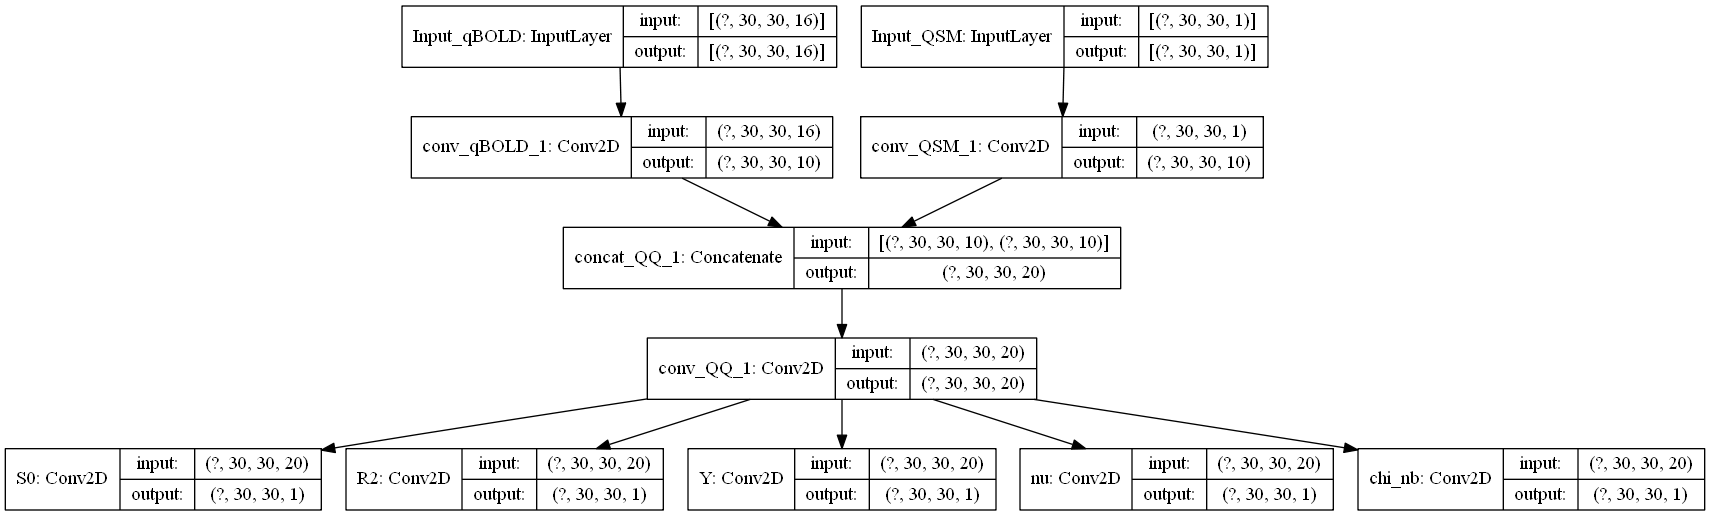
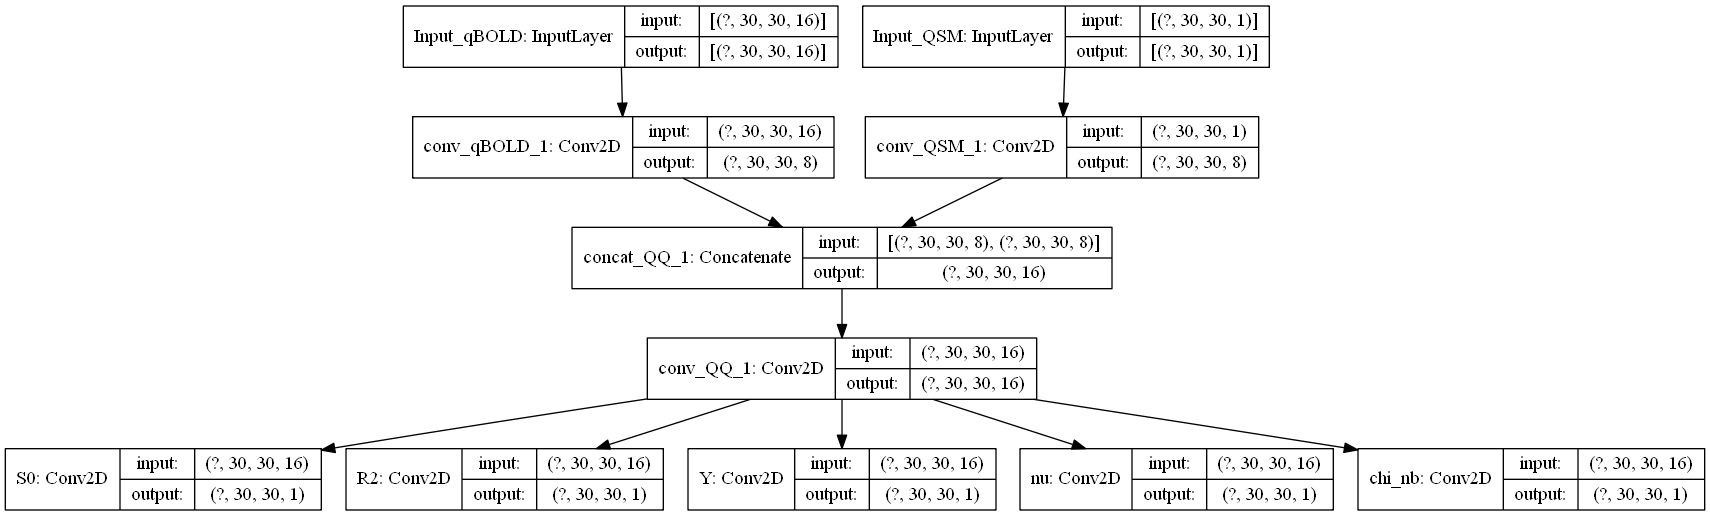
Got DataLoader to run

diff --git a/QSM_qBOLD_2D_network_with_dataset.py b/QSM_qBOLD_2D_network_with_dataset.py
@@ -10,7 +10,8 @@ import matplotlib.pyplot as plt
 from tqdm import tqdm  #for progress bar
 
 import h5py
-#from QSM_qBOLD_2D_load_and_prepare_data import load_and_prepare_data
+
+from qqboldparamsloader import QQBoldParamsLoader
 
 #tf.keras.mixed_precision.set_global_policy("mixed_float16") #accelerates training, expecially with tensor cores on RTX cards
 #from My_Custom_Generator import My_Params_Generator,My_Signal_Generator
@@ -34,7 +35,7 @@ QSM_test=Dataset['QSM_test']
 version = "no_air_0noise_big/"
 
 filenames=[]
-filenumber=int(848820/20)
+filenumber=int(848820)
 for count in range(filenumber):
     filenames.append("{0}.TIF".format(count).zfill(6+4))
 filenames_shuffled=shuffle(filenames)
@@ -42,7 +43,7 @@ filenames_shuffled=shuffle(filenames)
 threshold = int(filenumber*0.8)
 filenames_train_shuffled=filenames[:threshold]
 filenames_val_shuffled=filenames[threshold:]
-#len(filenames_train_shuffled)
+len(filenames_train_shuffled)
 #filenames_val_shuffled
 # %% Network
 
@@ -61,6 +62,7 @@ conv_qBOLD_1 = keras.layers.Conv2D(n,
                   activation='sigmoid',
                   name='conv_qBOLD_1')(input_qBOLD)
 
+"""
 conv_qBOLD_2 = keras.layers.Conv2D(2*n,
                   kernel_size = 3,
                   strides=1,
@@ -81,8 +83,8 @@ conv_qBOLD_3 =keras.layers.Conv2D(3*n,
                   name='conv_qBOLD_3')(concatenate_qBOLD)
 
 
-
-model_qBOLD = keras.Model(inputs=input_qBOLD, outputs = conv_qBOLD_3, name="qBOLD model")
+"""
+model_qBOLD = keras.Model(inputs=input_qBOLD, outputs = conv_qBOLD_1, name="qBOLD model")
 model_qBOLD.summary()
 keras.utils.plot_model(model_qBOLD, show_shapes=True)
 # %%
@@ -95,7 +97,7 @@ conv_QSM_1 = keras.layers.Conv2D(n,
                   dilation_rate=1,
                   activation='sigmoid',
                   name='conv_QSM_1')(input_QSM)
-
+"""
 conv_QSM_2 = keras.layers.Conv2D(2*n,
                   kernel_size=3,
                   strides=(1),
@@ -107,24 +109,25 @@ conv_QSM_2 = keras.layers.Conv2D(2*n,
 
 concatenate_QSM = layers.Concatenate(name = 'Concat_QSM')([input_QSM,conv_QSM_2])
 conv_QSM_3 = layers.Conv2D(3*n,3,padding='same',name = 'conv_QSM_3')(concatenate_QSM)
-model_QSM = keras.Model(inputs=input_QSM, outputs = conv_QSM_3, name="QSM model")
+"""
+model_QSM = keras.Model(inputs=input_QSM, outputs = conv_QSM_1, name="QSM model")
 model_QSM.summary()
 keras.utils.plot_model(model_QSM, show_shapes=True)
 # %%
 concat_QQ_1 = layers.Concatenate(name = 'concat_QQ_1')([model_qBOLD.output,model_QSM.output])
 
-conv_QQ_1 = layers.Conv2D(48,3,padding='same',name = 'conv_QQ_1')(concat_QQ_1)
-conv_QQ_2 = layers.Conv2D(2*48,3,padding='same',name = 'conv_QQ_2')(conv_QQ_1)
+conv_QQ_1 = layers.Conv2D(2*n,3,padding='same',name = 'conv_QQ_1')(concat_QQ_1)
+#conv_QQ_2 = layers.Conv2D(2*48,3,padding='same',name = 'conv_QQ_2')(conv_QQ_1)
 
 #concat_QQ_2 = layers.Concatenate(name = 'concat_QQ_2')([concat_QQ_1,conv_QQ_2])
 
 
 
-conv_S0 = layers.Conv2D(1,3,padding='same',activation="sigmoid", name = 'S0')(    conv_QQ_2)
-conv_R2 = layers.Conv2D(1,3,padding='same',activation="sigmoid", name = 'R2')(    conv_QQ_2)
-conv_Y = layers.Conv2D(1,3,padding='same',activation="sigmoid", name = 'Y')(     conv_QQ_2)
-conv_nu = layers.Conv2D(1,3,padding='same',activation="sigmoid", name = 'nu')(    conv_QQ_2)
-conv_chinb = layers.Conv2D(1,3,padding='same',activation="sigmoid", name = 'chi_nb')(conv_QQ_2)
+conv_S0 = layers.Conv2D(1,3,padding='same',activation="sigmoid", name = 'S0')(    conv_QQ_1)
+conv_R2 = layers.Conv2D(1,3,padding='same',activation="sigmoid", name = 'R2')(    conv_QQ_1)
+conv_Y = layers.Conv2D(1,3,padding='same',activation="sigmoid", name = 'Y')(     conv_QQ_1)
+conv_nu = layers.Conv2D(1,3,padding='same',activation="sigmoid", name = 'nu')(    conv_QQ_1)
+conv_chinb = layers.Conv2D(1,3,padding='same',activation="sigmoid", name = 'chi_nb')(conv_QQ_1)
 
 
 model_params = keras.Model(inputs=[input_qBOLD,input_QSM],outputs=[conv_S0,conv_R2,conv_Y,conv_nu,conv_chinb],name="Params_model")
@@ -162,55 +165,41 @@ model_params.compile(
     #metrics=["accuracy"],
 )
 
-#%%
 my_callbacks = [
     tf.keras.callbacks.EarlyStopping(patience=3),
     #tf.keras.callbacks.ModelCheckpoint(filepath='model.{epoch:02d}-{val_loss:.2f}.h5'),
     #tf.keras.callbacks.TensorBoard(log_dir='./logs/2021_07_15-1330')
 ]
 
+#%%
 
-S0_training = Params_training[:,:,:,0]
-R2_training = Params_training[:,:,:,1]
-Y_training = Params_training[:,:,:,2]
-nu_training = Params_training[:,:,:,3]
-chi_nb_training = Params_training[:,:,:,4]
-training_list = [S0_training,R2_training,Y_training,nu_training,chi_nb_training]
+batch_size=100
+train_params_loader = QQBoldParamsLoader(name="training_loader",shuffle=False,n_inputs=2,n_labels=5)
+training_Params_data =train_params_loader(filenames_train_shuffled,batch_size=batch_size,n_epochs=100,read_threads=1)
+val_params_loader = QQBoldParamsLoader(name="val_loader",shuffle=False,n_inputs=2,n_labels=5)
+val_Params_data =train_params_loader(filenames_val_shuffled,batch_size=batch_size,n_epochs=100,read_threads=1)
 
-#batch_size=100
+#data_read = train_params_loader._read_file_and_return_numpy_samples(bytes(filenames_train_shuffled[0],'utf-8'))
+#for i in data_read:
+#    print(i.shape)
 
-#my_training_Params_generator = My_Params_Generator(filenames_train_shuffled,batch_size)
-#my_val_Params_generator = My_Params_Generator(filenames_val_shuffled,batch_size)
-#training_Params_data = tf.data.Dataset.from_generator(
-#                                        my_training_Params_generator,
-#                                        output_types=( (tf.float32,tf.float32),   (tf.float32,tf.float32,tf.float32,tf.float32,tf.float32)    )
-#                                                          )
+#id_tensor0 = tf.squeeze(tf.convert_to_tensor(filenames_train_shuffled[0], dtype=tf.string))
+#id_tensor0
+#id_tensor1 = tf.squeeze(tf.convert_to_tensor(filenames_train_shuffled[1], dtype=tf.string))
+#id_tensor1
+#id_tensor=[id_tensor0,id_tensor1]
+#id_tensor
+#file_list_ds = tf.data.Dataset.from_tensor_slices(id_tensor)
+#test_read_wrapper = train_params_loader._read_wrapper(id_tensor0)
+#test_read_wrapper
+#test=training_Params_data.take(1)
+#for element in test:
+#    print(element)
 
-"""
-output_signature=( (tf.TensorSpec(shape=(30,30,16),dtype=tf.float32) ,
-tf.TensorSpec(shape=(30,30,1),dtype=tf.float32) ),
-(tf.TensorSpec(shape=(30,30,1),dtype=tf.float32),
-tf.TensorSpec(shape=(30,30,1),dtype=tf.float32),
-tf.TensorSpec(shape=(30,30,1),dtype=tf.float32),
-tf.TensorSpec(shape=(30,30,1),dtype=tf.float32),
-tf.TensorSpec(shape=(30,30,1),dtype=tf.float32))
-
-
-
-val_Params_data = tf.data.Dataset.from_generator(
-                                        my_val_Params_generator,
-                                        output_signature=( (tf.TensorSpec(shape(30,30,16),dtype=tf.float32) ,
-                                                            tf.TensorSpec(shape(30,30,1),dtype=tf.float32) ),
-                                                            (tf.TensorSpec(shape(30,30,1),dtype=tf.float32),
-                                                            tf.TensorSpec(shape(30,30,1),dtype=tf.float32),
-                                                            tf.TensorSpec(shape(30,30,1),dtype=tf.float32),
-                                                            tf.TensorSpec(shape(30,30,1),dtype=tf.float32),
-                                                            tf.TensorSpec(shape(30,30,1),dtype=tf.float32))                                                   )
-                                                          )
-                                        )
-"""
-history_params = model_params.fit([qBOLD_training,QSM_training], training_list , batch_size=100, epochs=1000, validation_split=0.2, callbacks=my_callbacks)
-#history_params = model_params.fit(training_Params_data, epochs=100,validation_data=val_Params_data, callbacks=my_callbacks)
+#history_params = model_params.fit([qBOLD_training,QSM_training], training_list , batch_size=100, epochs=1000, validation_split=0.2, callbacks=my_callbacks)
+#steps_per_epoch = len(filenames_train_shuffled)//batch_size,
+#validation_steps = len(filenames_val_shuffled)//batch_size,
+history_params = model_params.fit(training_Params_data, validation_data=val_Params_data, epochs = 100, callbacks=my_callbacks)
 
 #%%
 """
@@ -333,7 +322,9 @@ plt.figure()
 plt.imshow(QSM_test[Number,:,:,0], cmap='gray')
 
 # %%
-""" Second training step """
+"""
+# Second training step
+"""
 
 def f_hyper_tensor(x):
     '''
@@ -391,22 +382,7 @@ def f_qBOLD_tensor(tensor):
     t_Echo_fall=tf.constant([42,45,48], dtype=tf.float32)/1000
     output_Echo_fall = S0 * tf.math.exp(-R2*t_Echo_fall - nu*f_hyper_tensor(dw*(t_Echo_fall-TE)))
     return tf.concat([output_FID,output_Echo_rise,output_Echo_fall],axis=-1)
-"""
-This kind of test does not work because of Dimensions, but it works somehow in the network
-Incompatible shapes: [30,30] vs. [6] [Op:Mul]
 
-
-Params_test.shape
-p.shape
-test_a = tf.convert_to_tensor(Params_test[2,:,:,0])
-test_a.shape
-test_b = tf.convert_to_tensor(Params_test[2,:,:,1])
-test_c = tf.convert_to_tensor(Params_test[2,:,:,2])
-test_d = tf.convert_to_tensor(Params_test[2,:,:,3])
-test_e = tf.convert_to_tensor(Params_test[2,:,:,4])
-
-out = simulateSignal_for_FID([test_a,test_b,test_c,test_d,test_e])
-"""
 
 def f_QSM_tensor(tensor):
     c = tensor[0]

diff --git a/qqboldparamsloader.py b/qqboldparamsloader.py
@@ -10,8 +10,8 @@ import tensorflow as tf
 from skimage import io
 
 
-from .dataloader import Dataloader
-from . import config as cfg
+from dataloader import DataLoader
+import config as cfg
 
 # configure logger
 logger = logging.getLogger(__name__)
@@ -27,7 +27,6 @@ class QQBoldParamsLoader(DataLoader):
 
     def __init__(
         self,
-        file_dict: Dict[str, Dict[str, str]],
         mode=None,
         seed=42,
         name="reader",
@@ -81,50 +80,55 @@ class QQBoldParamsLoader(DataLoader):
             file_list, batch_size, n_epochs=n_epochs, read_threads=read_threads
         )
 
-def _set_up_shapes_and_types(self):
-    """
-    sets:
-    - dtypes
-    - dshapes
+    def _set_up_shapes_and_types(self):
+        """
+        sets:
+        - dtypes
+        - dshapes
 
-    """
-    # dtypes and dshapes are defined in the base class
-    # pylint: disable=attribute-defined-outside-init
+        """
+        # dtypes and dshapes are defined in the base class
+        # pylint: disable=attribute-defined-outside-init
 
-    if self.mode is self.MODES.TRAIN or self.mode is self.MODES.VALIDATE:
-        self.dtypes = [tf.float32,tf.float32, tf.float32,tf.float32,tf.float32,tf.float32,tf.float32]
-        self.dshapes = [
-            np.array([30,30,16]),np.array([30,30,1]),
-            np.array([30,30,1]),np.array([30,30,1]),np.array([30,30,1]),np.array([30,30,1]),np.array([30,30,1]),
-        ]
-    else:
-        raise ValueError(f"Not allowed mode {self.mode}")
+        if self.mode is self.MODES.TRAIN or self.mode is self.MODES.VALIDATE:
+            self.dtypes = [tf.float32,tf.float32, tf.float32,tf.float32,tf.float32,tf.float32,tf.float32]
+            self.dshapes = [
+                np.array([30,30,16]),np.array([30,30,1]),
+                np.array([30,30,1]),np.array([30,30,1]),np.array([30,30,1]),np.array([30,30,1]),np.array([30,30,1]),
+            ]
+        else:
+            raise ValueError(f"Not allowed mode {self.mode}")
 
-    #self.data_rank = len(self.dshapes[0])
+        #self.data_rank = len(self.dshapes[0])
 
-    #assert self.data_rank in [3, 4], "The rank should be 3 or 4."
+        #assert self.data_rank in [3, 4], "The rank should be 3 or 4."
 
-def _read_file_and_return_numpy_samples(self, file_name_queue: bytes):
-    """Helper function getting the actual samples
+    def _read_file_and_return_numpy_samples(self, file_name_queue: bytes):
+        """Helper function getting the actual samples
 
-    Parameters
-    ----------
-    file_name_queue : bytes
-        The filename
+        Parameters
+        ----------
+        file_name_queue : bytes
+            The filename
 
-    Returns
-    -------
-    np.array, np.array
-        The samples and labels
-    """
-    #data_img, label_img = self._load_file(file_name_queue)
-    #samples, labels = self._get_samples_from_volume(data_img, label_img)
-    qBOLD  = np.array([io.imread('../Brain_Phantom/Patches_no_air_big/qBOLD/qBOLD_' + str(file_name_queue))])
-    qBOLD = np.moveaxis(qBOLD,0,-1)
-    QSM  = np.array([io.imread('../Brain_Phantom/Patches_no_air_big/QSM/QSM_' + str(file_name_queue))])
-    QSM = np.moveaxis(QSM,0,-1)
-    Params  = np.array([io.imread('../Brain_Phantom/Patches_no_air_big/Params/Params_' + str(file_name_queue))])
-    Params = np.moveaxis(Params,0,-1)
+        Returns
+        -------
+        np.array, np.array
+            The samples and labels
+        """
+        #data_img, label_img = self._load_file(file_name_queue)
+        #samples, labels = self._get_samples_from_volume(data_img, label_img)
+        qBOLD  = np.array(io.imread('../Brain_Phantom/Patches_no_air_big/qBOLD/qBOLD_' + file_name_queue.decode("utf-8")))
+        qBOLD = np.moveaxis(qBOLD,0,-1)
+        qBOLD = np.expand_dims(qBOLD,axis=0)
+        QSM  = np.array(io.imread('../Brain_Phantom/Patches_no_air_big/QSM/QSM_' + file_name_queue.decode("utf-8")))
+        QSM = np.moveaxis(QSM,0,-1)
+        QSM = np.expand_dims(QSM,axis=[0,-1])
+        Params  = np.array(io.imread('../Brain_Phantom/Patches_no_air_big/Params/Params_' + file_name_queue.decode("utf-8")))
+        S0=np.expand_dims(Params[0,:,:],axis=[0,-1])
+        R2=np.expand_dims(Params[1,:,:],axis=[0,-1])
+        Y=np.expand_dims(Params[2,:,:],axis=[0,-1])
+        nu=np.expand_dims(Params[3,:,:],axis=[0,-1])
+        chi_nb=np.expand_dims(Params[4,:,:],axis=[0,-1])
 
-
-    return qBOLD,QSM,Params[:,:,:,0],Params[:,:,:,1],Params[:,:,:,2],Params[:,:,:,3],Params[:,:,:,4]
+        return qBOLD,QSM,S0,R2,Y,nu,chi_nb

diff --git a/dataloader.py b/dataloader.py
@@ -185,13 +185,11 @@ class DataLoader(object):
 
             if self.mode is self.MODES.TRAIN:
                 # shuffle and repeat n_epoch times if in training mode
-                file_list_ds = file_list_ds.shuffle(buffer_size=self.n_files).repeat(
-                    count=n_epochs
-                )
+                file_list_ds = file_list_ds.shuffle(buffer_size=self.n_files)#.repeat(                  count=n_epochs                )
 
             # read data from file using the _read_wrapper
             dataset = file_list_ds.map(
-                map_func=self._read_wrapper, num_parallel_calls=read_threads
+                map_func=self._read_wrapper, num_parallel_calls=tf.data.experimental.AUTOTUNE #was num_parallel_calls=read_threads
             )
             # in the result, each element in the dataset has the number of samples
             # per file as first dimension followed by the sample shape
@@ -218,7 +216,7 @@ class DataLoader(object):
                 dataset = dataset.batch(batch_size=batch_size, drop_remainder=True)
 
             # batch prefetch
-            dataset = dataset.prefetch(1)
+            dataset = dataset.prefetch(buffer_size=tf.data.experimental.AUTOTUNE) #Patrick: was originally 1
 
         return dataset
 
@@ -248,7 +246,8 @@ class DataLoader(object):
             dataset = dataset.interleave(
                 lambda *elem: tf.data.Dataset.zip(
                     tuple((tf.data.Dataset.from_tensor_slices(e) for e in elem))
-                )
+                ),
+                num_parallel_calls=tf.data.experimental.AUTOTUNE
             )
         return dataset
 

diff --git a/QSM_qBOLD_2D_network_super_simple.py b/QSM_qBOLD_2D_network_super_simple.py
@@ -138,7 +138,7 @@ training_list = [S0_training,R2_training,Y_training,nu_training,chi_nb_training]
 
 
 
-history_params = model_params.fit([qBOLD_training,QSM_training], training_list , batch_size=100, epochs=1000, validation_split=0.2, callbacks=my_callbacks)
+history_params = model_params.fit([qBOLD_training,QSM_training], training_list , batch_size=100, epochs=100, validation_split=0.2, callbacks=my_callbacks)
 #history_params = model_params.fit(training_Params_data, epochs=100,validation_data=val_Params_data, callbacks=my_callbacks)
 
 #%%

diff --git a/My_Custom_Generator.py b/My_Custom_Generator.py
@@ -53,3 +53,6 @@ class My_Signal_Generator(keras.utils.Sequence) :
     QSM    = np.array([io.imread('/QSM/QSM_' + str(file_name)) for file_name in batch_x])
 
     return [qBOLD, QSM], [qBOLD, QSM]
+
+#Params = np.array([io.imread('../Brain_Phantom/Patches_no_air_big/Params/Params_000000.TIF')])
+#Params.shape
